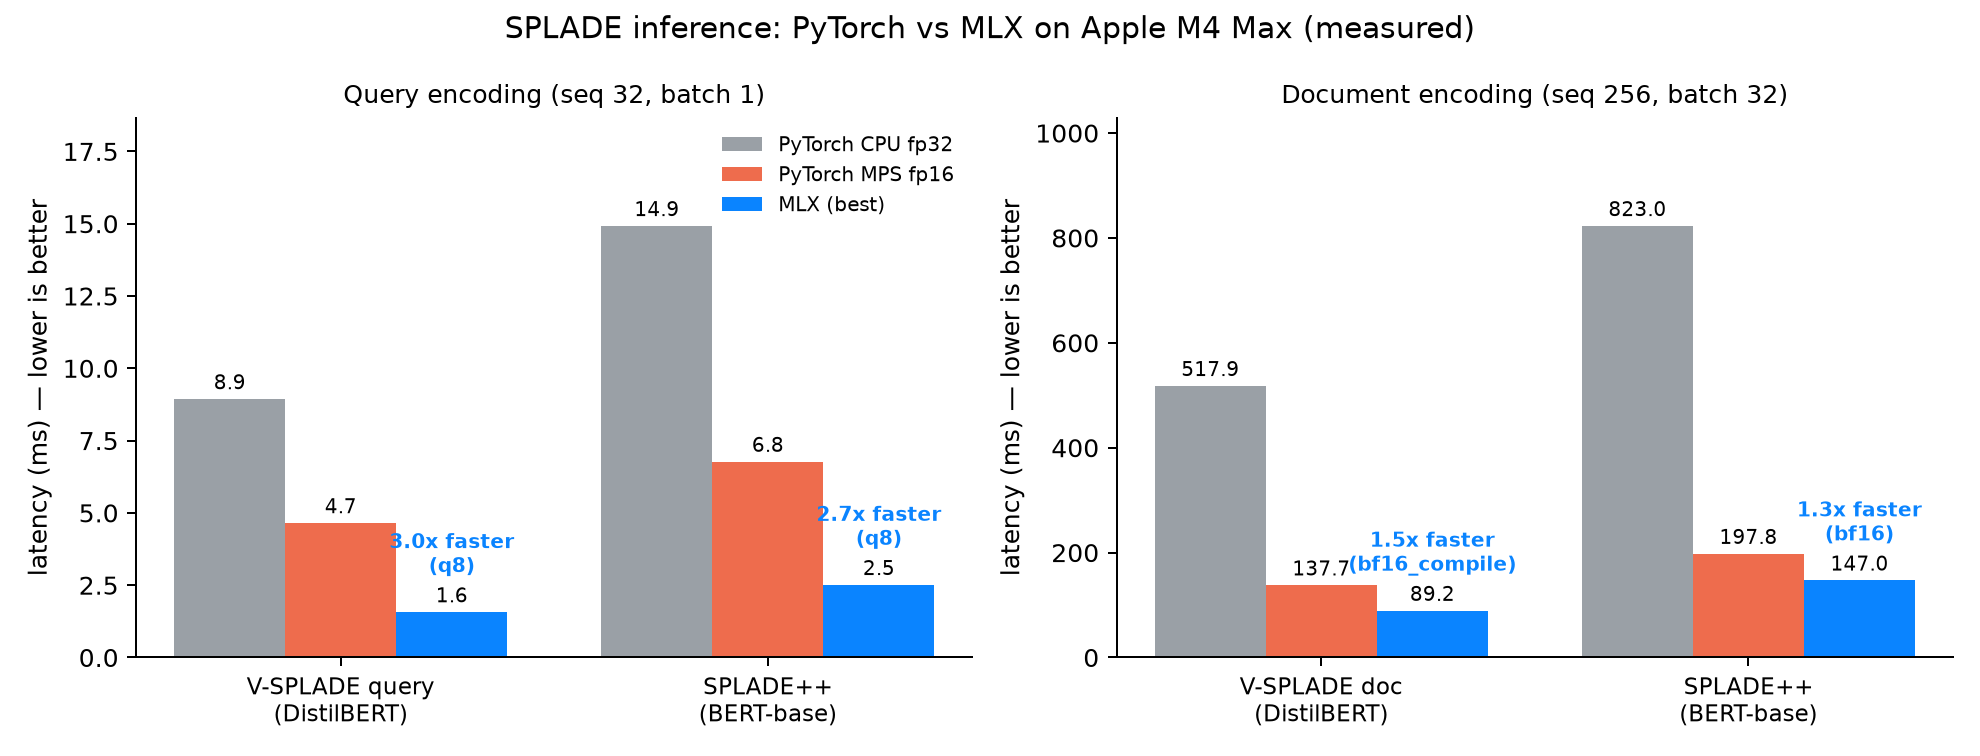
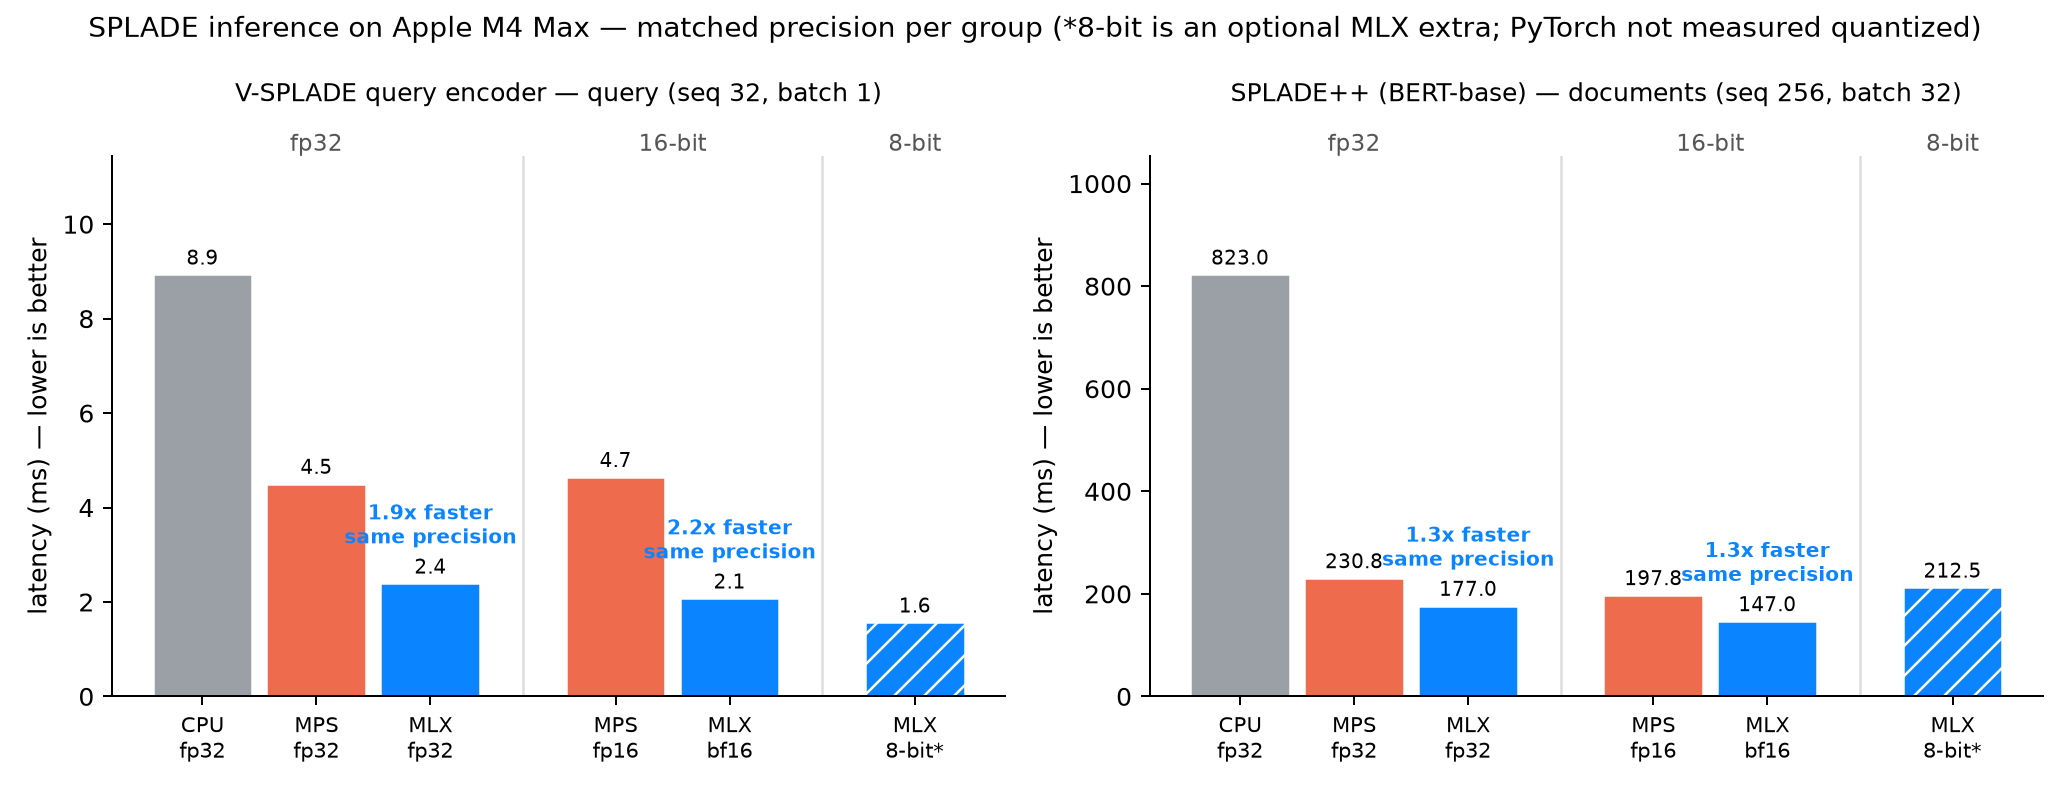
Latency chart: matched-precision comparison only
Compare fp32 vs fp32 and MPS fp16 vs MLX bf16 so the shown speedup is
attributable to the MLX port itself, not quantization. 8-bit shown as a
clearly-marked optional extra (and honestly slower than bf16 at batch 32).

diff --git a/scripts/make_charts.py b/scripts/make_charts.py
@@ -34,72 +34,76 @@ def _mean_ms(run: dict, model: str, workload: str) -> float:
     return run["models"][model]["workloads"][workload]["mean_ms"]
 
 
-def _best_mlx(model: str, workload: str) -> tuple[float, str]:
-    best, tag = None, ""
-    for path in RESULTS.glob("mlx_*.json"):
-        if path.stem.endswith("_quick"):
-            continue
-        run = json.loads(path.read_text())
-        wl = run["models"].get(model, {}).get("workloads", {}).get(workload)
-        if wl and (best is None or wl["mean_ms"] < best):
-            best = wl["mean_ms"]
-            tag = path.stem.replace("mlx_", "").replace("float32_", "").replace("bfloat16", "bf16")
-    return best, tag
-
-
 def latency_chart() -> None:
-    cpu, mps = _load("baseline_cpu_fp32"), _load("baseline_mps_fp16")
+    """Matched-precision comparison: torch and MLX at the SAME precision per group,
+    so the speedup shown is attributable to MLX itself, not quantization."""
+    cpu32 = _load("baseline_cpu_fp32")
+    mps32 = _load("baseline_mps_fp32")
+    mps16 = _load("baseline_mps_fp16")
+    mlx32 = _load("mlx_float32")
+    mlx16 = _load("mlx_bfloat16")
+    mlxq8 = _load("mlx_float32_q8")
+
     panels = [
-        (
-            "Query encoding (seq 32, batch 1)",
-            "query-L32-B1",
-            [
-                ("V-SPLADE query\n(DistilBERT)", "efficient-splade-V-large-query"),
-                ("SPLADE++\n(BERT-base)", "splade-cocondenser-ensembledistil"),
-            ],
-        ),
-        (
-            "Document encoding (seq 256, batch 32)",
-            "doc-L256-B32",
-            [
-                ("V-SPLADE doc\n(DistilBERT)", "efficient-splade-V-large-doc"),
-                ("SPLADE++\n(BERT-base)", "splade-cocondenser-ensembledistil"),
-            ],
-        ),
+        ("V-SPLADE query encoder — query (seq 32, batch 1)", "efficient-splade-V-large-query", "query-L32-B1"),
+        ("SPLADE++ (BERT-base) — documents (seq 256, batch 32)", "splade-cocondenser-ensembledistil", "doc-L256-B32"),
     ]
 
-    fig, axes = plt.subplots(1, 2, figsize=(11, 4.2))
-    for ax, (title, workload, models) in zip(axes, panels):
-        labels = [lbl for lbl, _ in models]
-        cpu_v = [_mean_ms(cpu, m, workload) for _, m in models]
-        mps_v = [_mean_ms(mps, m, workload) for _, m in models]
-        mlx_v, mlx_tag = zip(*[_best_mlx(m, workload) for _, m in models])
-        x = range(len(models))
-        w = 0.26
-        b1 = ax.bar([i - w for i in x], cpu_v, w, label="PyTorch CPU fp32", color=TORCH_CPU)
-        b2 = ax.bar(x, mps_v, w, label="PyTorch MPS fp16", color=TORCH_MPS)
-        b3 = ax.bar([i + w for i in x], mlx_v, w, label="MLX (best)", color=MLX)
-        for bars in (b1, b2, b3):
-            ax.bar_label(bars, fmt="%.1f", fontsize=8, padding=2)
-        for i, (m_ms, t_ms, tag) in enumerate(zip(mlx_v, mps_v, mlx_tag)):
+    fig, axes = plt.subplots(1, 2, figsize=(11.5, 4.4))
+    for ax, (title, model, workload) in zip(axes, panels):
+        v = {
+            "cpu32": _mean_ms(cpu32, model, workload),
+            "mps32": _mean_ms(mps32, model, workload),
+            "mlx32": _mean_ms(mlx32, model, workload),
+            "mps16": _mean_ms(mps16, model, workload),
+            "mlx16": _mean_ms(mlx16, model, workload),
+            "q8": _mean_ms(mlxq8, model, workload),
+        }
+        # precision-matched groups: fp32 | 16-bit | 8-bit (torch n/a)
+        bars = [
+            (0.0, v["cpu32"], "PyTorch CPU", TORCH_CPU, None),
+            (0.8, v["mps32"], "PyTorch MPS", TORCH_MPS, None),
+            (1.6, v["mlx32"], "MLX", MLX, v["mps32"]),
+            (2.9, v["mps16"], "PyTorch MPS", TORCH_MPS, None),
+            (3.7, v["mlx16"], "MLX", MLX, v["mps16"]),
+            (5.0, v["q8"], "MLX", MLX, None),
+        ]
+        for x, val, _, color, ref in bars:
+            hatch = "//" if x == 5.0 else None
+            b = ax.bar([x], [val], 0.7, color=color, hatch=hatch, edgecolor="white")
+            ax.bar_label(b, fmt="%.1f", fontsize=8, padding=2)
+            if ref is not None:
+                ax.annotate(
+                    f"{ref / val:.1f}x faster\nsame precision",
+                    (x, val),
+                    textcoords="offset points",
+                    xytext=(0, 16),
+                    ha="center",
+                    fontsize=8,
+                    color=MLX,
+                    fontweight="bold",
+                )
+        ax.set_xticks([x for x, *_ in bars])
+        ax.set_xticklabels(
+            ["CPU\nfp32", "MPS\nfp32", "MLX\nfp32", "MPS\nfp16", "MLX\nbf16", "MLX\n8-bit*"],
+            fontsize=8.5,
+        )
+        for xc, lbl in ((0.8, "fp32"), (3.3, "16-bit"), (5.0, "8-bit")):
             ax.annotate(
-                f"{t_ms / m_ms:.1f}x faster\n({tag})",
-                (i + w, m_ms),
-                textcoords="offset points",
-                xytext=(0, 16),
-                ha="center",
-                fontsize=8,
-                color=MLX,
-                fontweight="bold",
+                lbl, (xc, 1.0), xycoords=("data", "axes fraction"),
+                ha="center", va="bottom", fontsize=9, color="#555",
             )
-        ax.set_xticks(list(x))
-        ax.set_xticklabels(labels, fontsize=9)
+        ax.axvline(2.25, color="#ddd", lw=1)
+        ax.axvline(4.35, color="#ddd", lw=1)
         ax.set_ylabel("latency (ms) — lower is better")
-        ax.set_title(title, fontsize=10)
-        ax.set_ylim(0, max(cpu_v) * 1.25)
+        ax.set_title(title, fontsize=10, pad=22)
+        ax.set_ylim(0, v["cpu32"] * 1.28)
         ax.spines[["top", "right"]].set_visible(False)
-    axes[0].legend(fontsize=8, frameon=False)
-    fig.suptitle("SPLADE inference: PyTorch vs MLX on Apple M4 Max (measured)", fontsize=12)
+    fig.suptitle(
+        "SPLADE inference on Apple M4 Max — matched precision per group "
+        "(*8-bit is an optional MLX extra; PyTorch not measured quantized)",
+        fontsize=11,
+    )
     fig.tight_layout()
     fig.savefig(ASSETS / "latency_m4max.png", dpi=180)
     print("wrote assets/latency_m4max.png")

diff --git a/README.md b/README.md
@@ -6,13 +6,18 @@
 
 ![Retrieval quality is preserved](assets/quality_parity.png)
 
-*All numbers above are measured on an Apple M4 Max (12P+4E, 64 GB). MLX fp32 reproduces
-the PyTorch fp32 nDCG@10 to the last floating-point digit on BEIR NFCorpus and SciFact —
-the ranking is identical, not just close. bf16 and 8-bit stay within ±0.0014.*
+*All numbers above are measured on an Apple M4 Max (12P+4E, 64 GB). The latency chart
+compares **matched precision only** (fp32 vs fp32, fp16 vs bf16), so the speedup is
+attributable to MLX itself — not to quantization. Quantization is an optional extra
+(it helps at batch 1, and is actually slower than bf16 at large batches). MLX fp32
+reproduces the PyTorch fp32 nDCG@10 to the last floating-point digit on BEIR NFCorpus
+and SciFact — the ranking is identical, not just close. bf16 and 8-bit stay within
+±0.0014.*
 
 ## Highlights
 
-- **1.3–4.0x faster** than the best PyTorch configuration (MPS fp16); up to **8.9x** vs PyTorch CPU
+- **1.3–4.0x faster at matched precision** (fp32 vs fp32: 1.3–3.4x, bf16 vs MPS fp16:
+  1.3–4.0x); up to **8.9x** vs PyTorch CPU
 - **Single-query encoding in 1.6 ms** (V-SPLADE query encoder, 8-bit) — fast enough for on-device, per-keystroke retrieval
 - **Bit-exact quality** in fp32, verified with three parity gates plus full BEIR evaluations
 - BERT and DistilBERT MLM backbones, asymmetric V-SPLADE query/doc pair API, bf16 / 8-bit / 4-bit quantization
